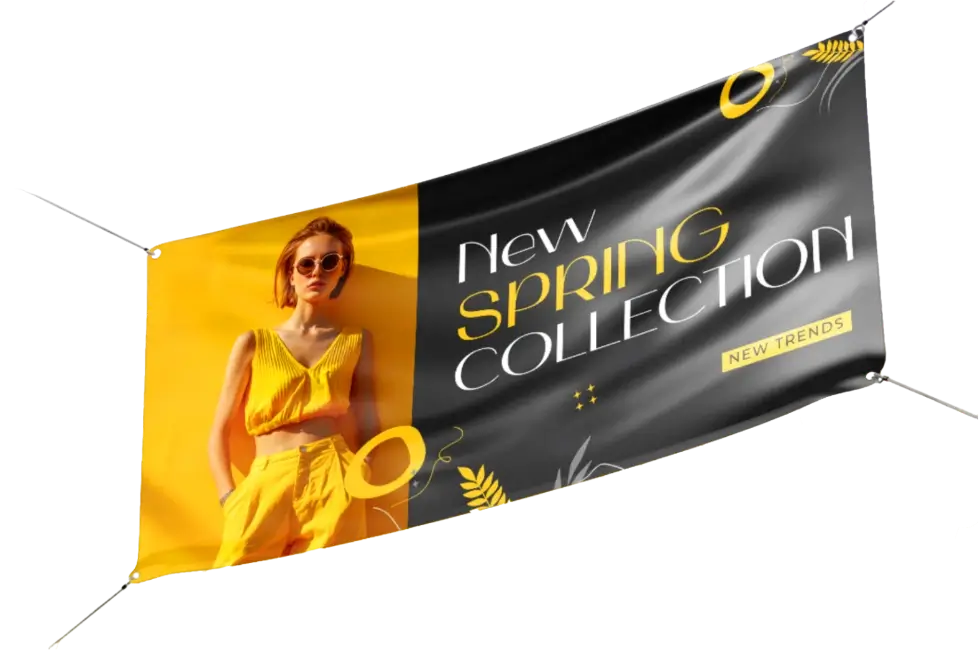
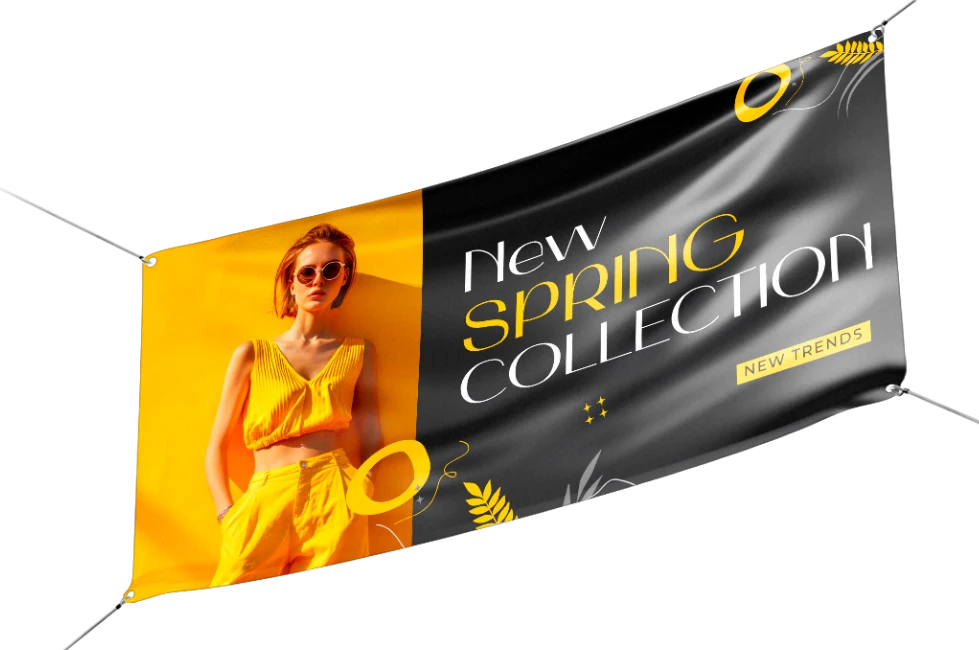
feat: update second slider

diff --git a/resources/js/src/Pages/Home/HomeSlider.tsx b/resources/js/src/Pages/Home/HomeSlider.tsx
@@ -3,6 +3,7 @@ import { Autoplay } from "swiper";
 import { Swiper, SwiperSlide, useSwiper } from "swiper/react";
 import footerBg from "@/assets/images/footer-bg.webp";
 import slide3Bg from "@/assets/images/slides/slide3-bg.webp";
+import slide2Bg from "@/assets/images/slides/slide2-bg.webp";
 import slide1 from "@/assets/images/slides/slide1.webp";
 import slide2 from "@/assets/images/slides/slide2.webp";
 import slide3 from "@/assets/images/slides/slide3.webp";
@@ -51,7 +52,7 @@ const HomeSlider: React.FC<HomeSliderProps> = ({}: HomeSliderProps) => {
       </SwiperSlide>
 
       <SwiperSlide>
-        <div className="ps-banner" style={{ background: `url(${footerBg})` }}>
+        <div className="ps-banner" style={{ background: `url(${slide2Bg})` }}>
           <div className="container">
             <div className="banner-row">
               <h3 className="banner-highlight banner-highlight--big banner-highlight--purple">
